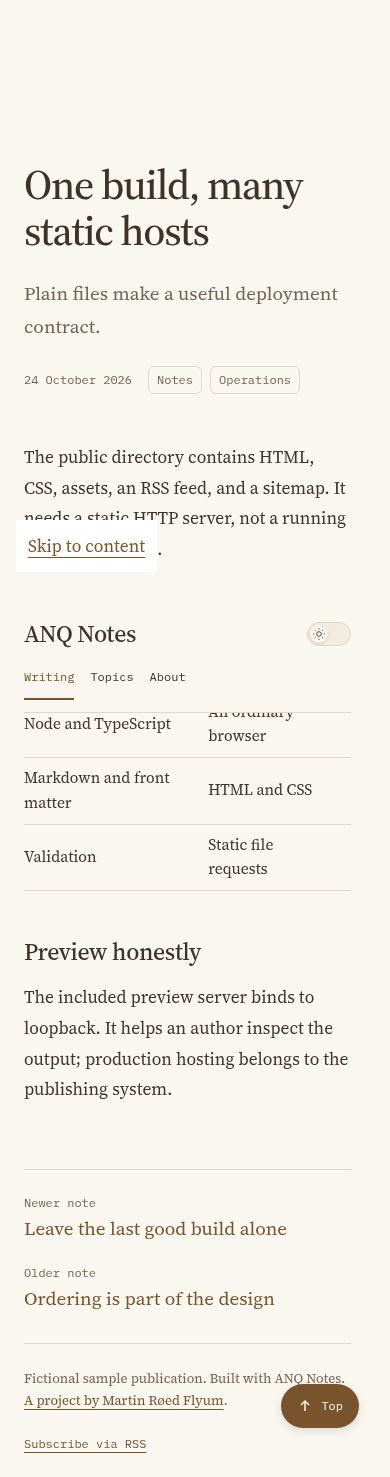
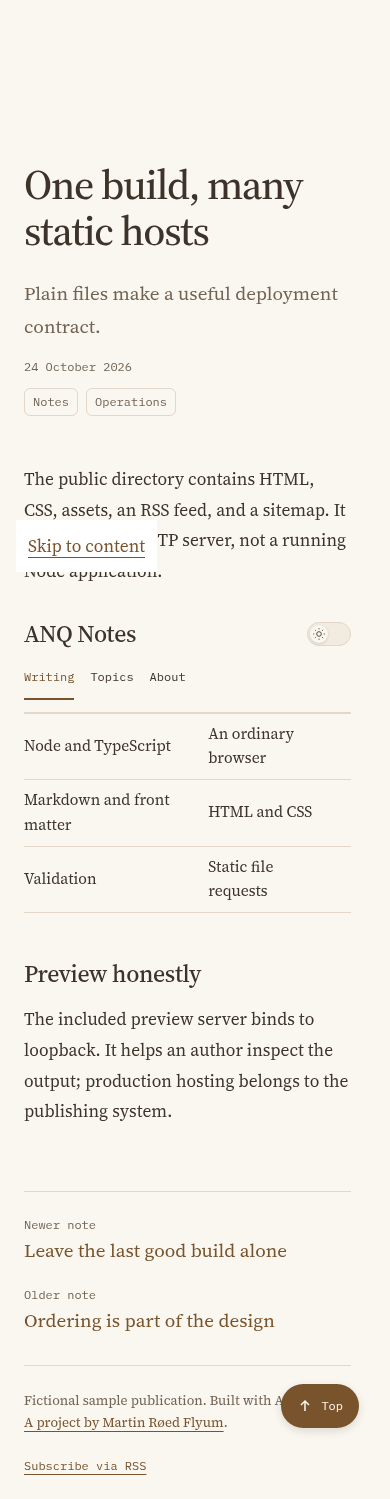
style(post): give the date its own line above the tags

diff --git a/styles/site.css b/styles/site.css
@@ -295,18 +295,18 @@ th {
   color: var(--color-brand);
 }
 /* Posts and pages have no margin column: one centred block, inset evenly from the rules, whose
-   larger text keeps lines comfortable to read. The date joins the tags. */
+   larger text keeps lines comfortable to read. The date sits above the tags. */
 main > .reading-heading {
   display: block;
   max-width: var(--width-reading);
   margin-inline: auto;
 }
 .post-meta {
-  margin-top: var(--space-5);
+  margin-top: var(--space-4);
   display: flex;
-  flex-wrap: wrap;
-  align-items: center;
-  gap: var(--space-2) var(--space-4);
+  flex-direction: column;
+  align-items: flex-start;
+  gap: var(--space-3);
 }
 .post-meta .eyebrow,
 .post-meta .tags {

diff --git a/DESIGN.md b/DESIGN.md
@@ -12,7 +12,7 @@ ANQ Notes follows the ANQ family system.
 - **Signature:** dates in the margin column beside a ruled index of posts, and
   post counts in the same place on Topics. Below 760px they move above their entry.
   Posts and pages have no margin column: one `--width-reading` (44rem) block
-  centred under the rules, with `--text-lg` body text and a post's date beside
+  centred under the rules, with `--text-lg` body text and a post's date above
   its tags.
 - **JavaScript:** required to work without it. Pages are static HTML; the
   theme switch is the only script and is an enhancement.
